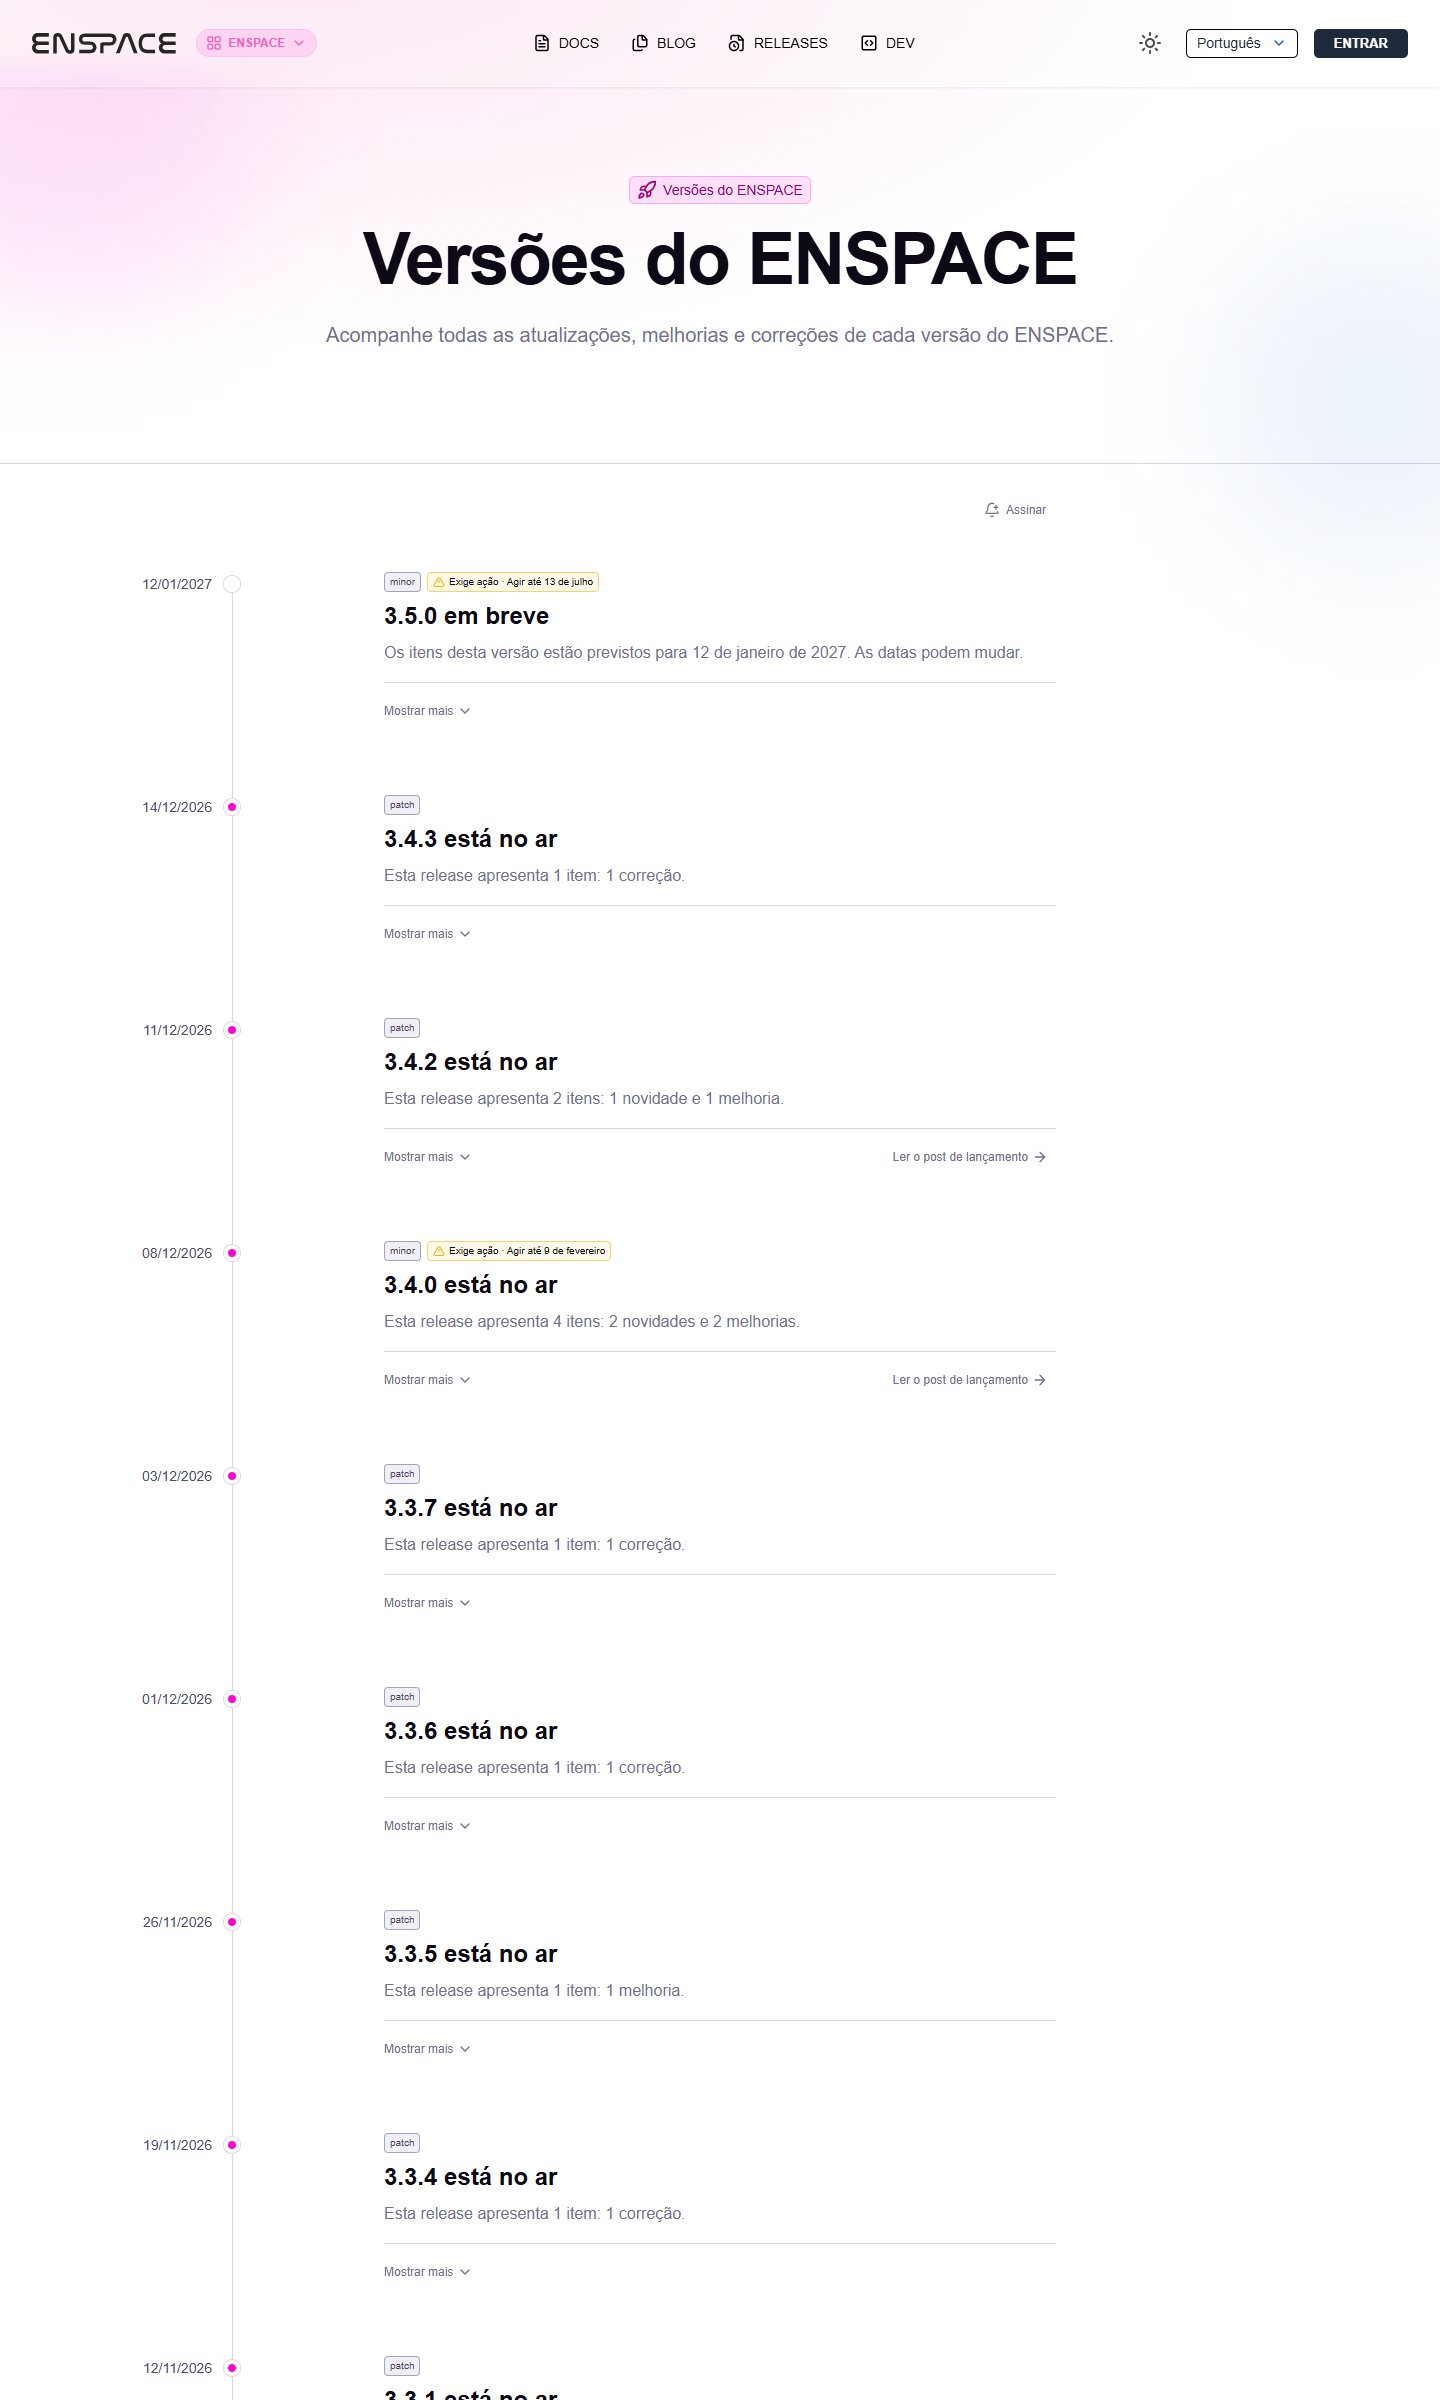
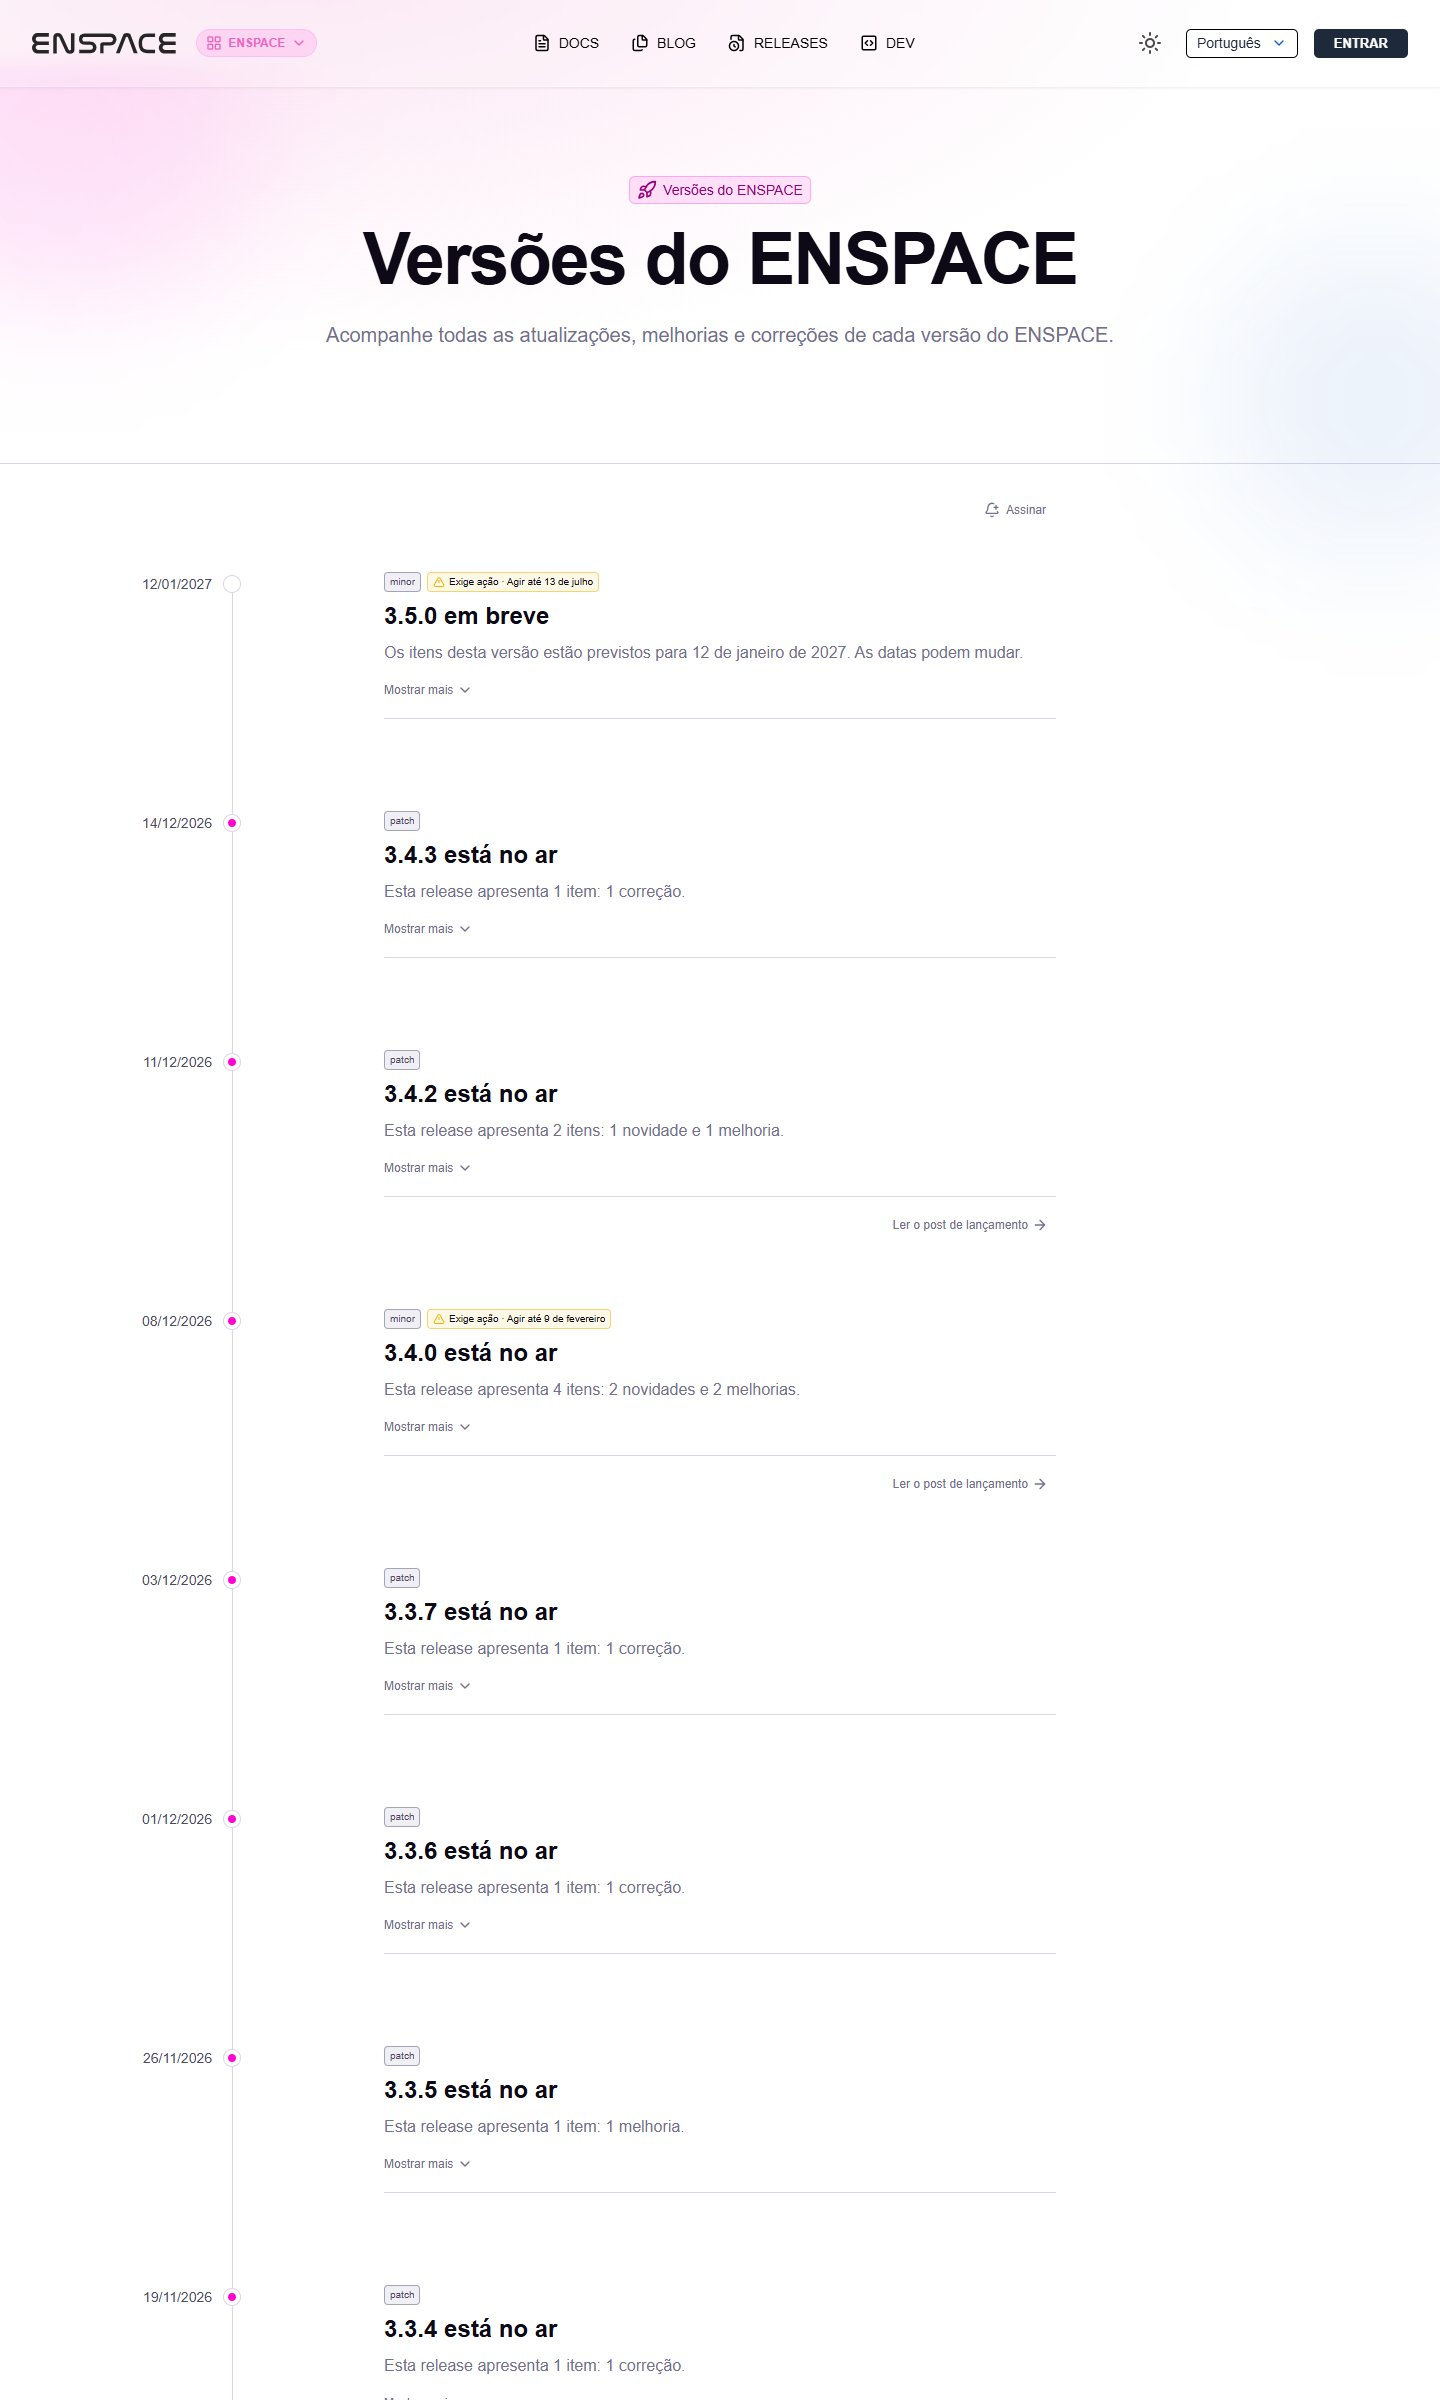
[PROTO] releases-no-docs — rodada 5 — Mostrar mais acima do divisor do rodapé

diff --git a/app/pages/releases-no-docs/_Changelog.vue b/app/pages/releases-no-docs/_Changelog.vue
@@ -14,7 +14,7 @@
  *
  * Rodada 5:
  * - o texto vem fechado (`UCollapsible`); fechada, a versão mostra a data, os rótulos, o título e o
- *   resumo curto. "Mostrar mais" no rodapé abre e fecha;
+ *   resumo curto. "Mostrar mais", acima da linha do rodapé, abre e fecha;
  * - sem filtros e sem a contagem de versões; sai a página Próximas mudanças: a versão Em breve fica
  *   no topo, e as 3 fases da mudança que quebra entram em 1 frase no texto do item;
  * - cada título tem link, como os títulos de markdown do Nuxt UI e o changelog do Notion: o título
@@ -175,7 +175,7 @@ watch(() => props.destaque, async (id) => {
           meta: 'flex flex-wrap items-center gap-1.5 mb-2',
           title: 'text-2xl font-bold text-highlighted',
           description: 'text-base text-muted mt-2 leading-relaxed',
-          footer: 'border-t border-default pt-4 mt-4 flex flex-wrap items-center justify-between gap-2',
+          footer: v.emPostDoMes ? 'border-t border-default pt-4 mt-4 flex flex-wrap items-center justify-end gap-2' : 'border-t border-default mt-4',
           dotInner: v.emBreve ? 'size-2 rounded-full bg-dimmed' : undefined,
         }"
       >
@@ -256,9 +256,8 @@ watch(() => props.destaque, async (id) => {
               </div>
             </template>
           </UCollapsible>
-        </template>
 
-        <template #footer>
+          <!-- Mostrar mais e Mostrar menos ficam acima da linha do rodapé, logo abaixo do texto -->
           <UButton
             size="xs"
             color="neutral"
@@ -267,9 +266,13 @@ watch(() => props.destaque, async (id) => {
             trailing-icon="i-lucide-chevron-down"
             :aria-expanded="estaAberta(v.id)"
             :ui="{ trailingIcon: ['transition-transform duration-200', estaAberta(v.id) ? 'rotate-180' : ''].join(' ') }"
-            class="-ml-2 cursor-pointer"
+            class="-ml-2 mt-3 cursor-pointer"
             @click="alternar(v.id)"
           />
+        </template>
+
+        <!-- Abaixo da linha, só o post de lançamento; sem post, o rodapé é só a linha -->
+        <template #footer>
           <UButton
             v-if="v.emPostDoMes"
             size="xs"

diff --git a/app/pages/releases-no-docs/DECISOES.md b/app/pages/releases-no-docs/DECISOES.md
@@ -56,6 +56,10 @@ flowchart LR
   - sai o link para "Próximas mudanças" do topo da trilha; fica só "Assinar"
   - no post do mês, o aviso de ação leva ao item na trilha ("Ver no changelog"); sai o botão "Ver o que fazer"
   - os prints `rodada3-proximas-*` ficam em `evidencias/` como histórico
+- **Ajuste seguinte (pedido literal):** "o botao de mostrar mais deve vir ANTES do divider, nao depois. acima dele, nao abaixo."
+  - "Mostrar mais" e "Mostrar menos" saem do rodapé do `UChangelogVersion` e vão para o fim do `#body`, logo abaixo do texto e acima da linha do rodapé
+  - "Ler o post de lançamento" fica no `#footer`, abaixo da linha, à direita. Na versão sem post, o rodapé é só a linha, sem espaço vazio embaixo
+  - prints refeitos: `rodada5-trilha-desktop-claro.jpg` e `rodada5-versao-aberta-desktop-claro.jpg`. Os outros prints da rodada 5 mostram o botão ainda abaixo da linha
 - **Print do ícone no subtítulo:** a captura sem janela não tem mouse; o estado de hover foi forçado pelo DevTools do Chrome (`CSS.forcePseudoState`) no link do subtítulo "Novidades". Não há ponteiro na imagem
 - **Para a redatora decidir:**
   - o ícone ao passar o mouse é o `#` dos títulos do Nuxt UI; o Notion usa o ícone de corrente. Trocar o ícone muda todos os títulos de markdown do repositório, porque vem da configuração do app
